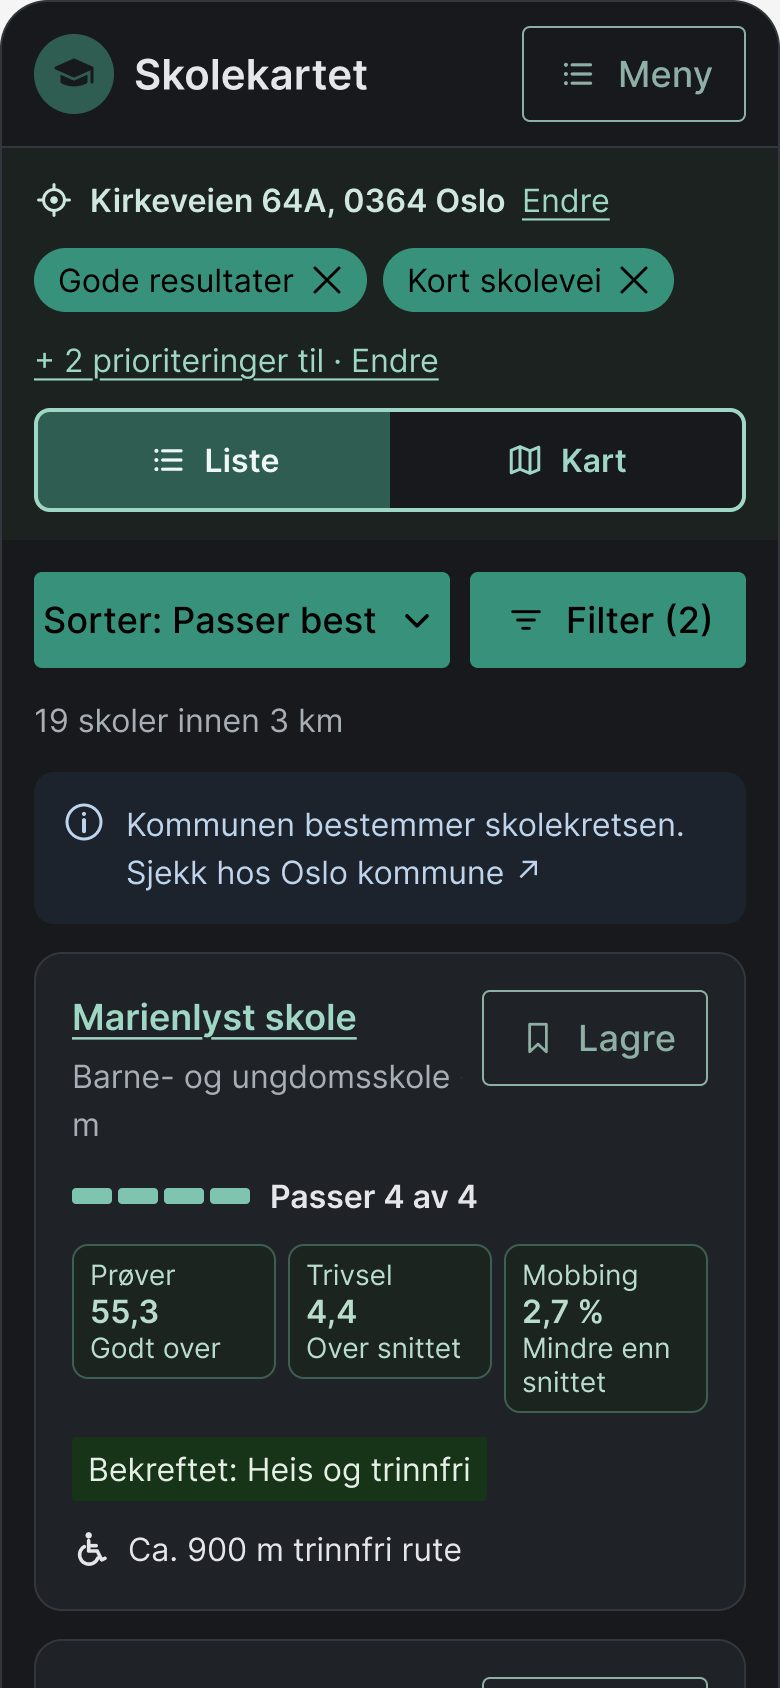
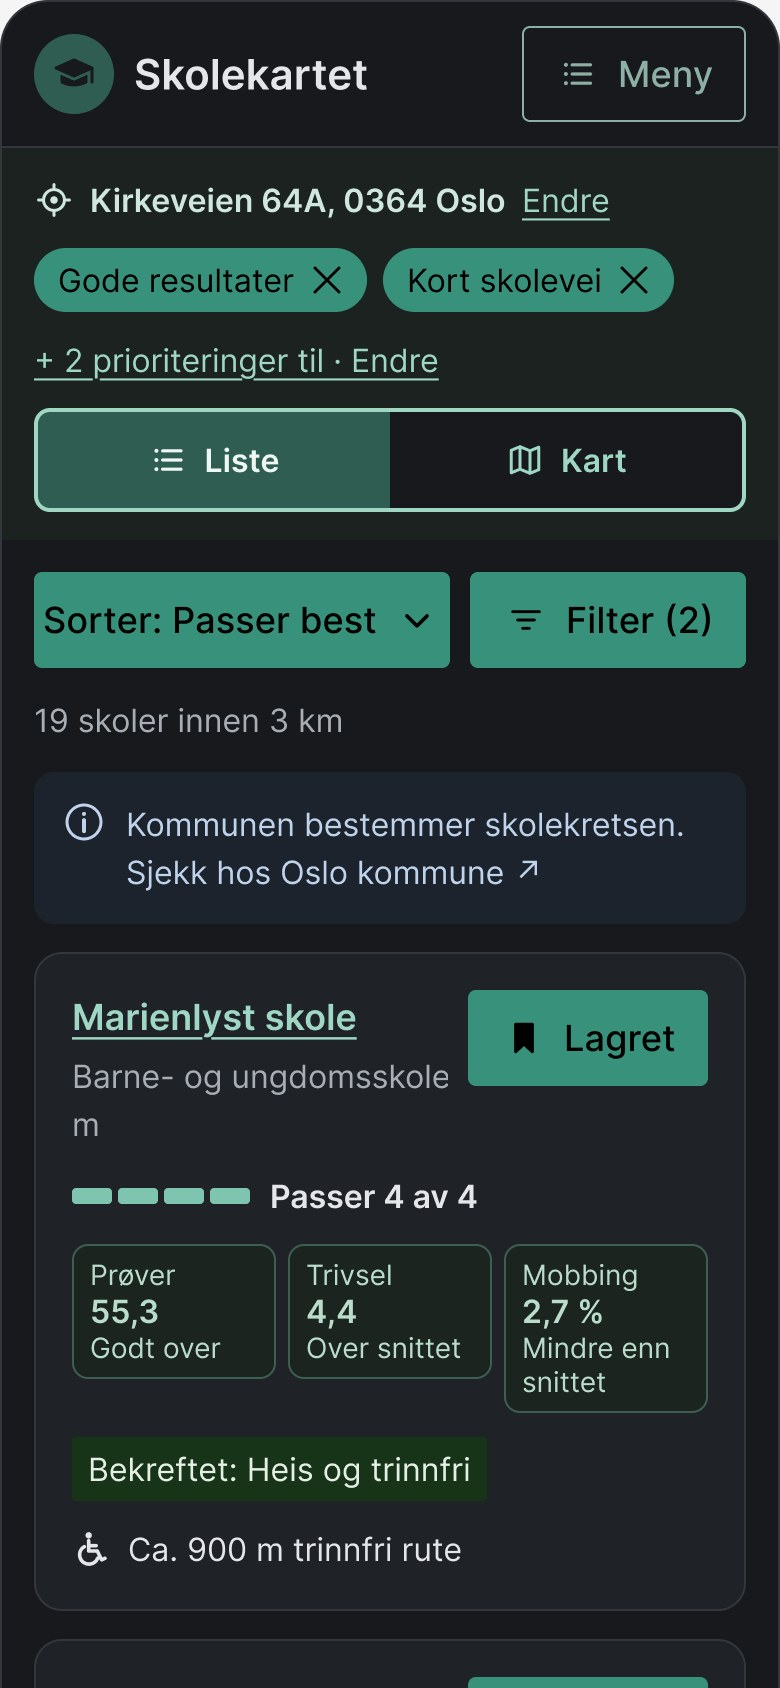
Skolekartet case images: saved schools show Lagret on their cards
Re-exported from Figma after fixing the save buttons, so the cards match
the saved list.

Changed region(s): [[0.5846, 0.5853, 0.9231, 0.6469], [0.5846, 0.9858, 0.9231, 1.0]]

diff --git a/skolekartet.html b/skolekartet.html
@@ -214,7 +214,7 @@
     </div>
 
     <figure class="sk-hero">
-      <img src="assets/case/sk/cover-v2.jpg?v=3" width="2000" height="1500"
+      <img src="assets/case/sk/cover-v2.jpg?v=4" width="2000" height="1500"
            alt="The redesigned Skolekartet on a laptop and a phone. On the laptop, schools near Kirkeveien 64A are sorted by how well they fit the family&apos;s priorities: good results, little bullying, step-free access for the parent and a short school route, with test results, wellbeing and bullying in words on every card. On the phone, the shared list in large text with the same numbers in words." />
       <figcaption data-en="Results, wellbeing and access count the same, every number comes with words, and the list opens on the parent&rsquo;s own phone."
                   data-no="Resultater, trivsel og tilgjengelighet teller like mye, hvert tall kommer med ord, og listen åpnes på forelderens egen telefon.">

diff --git a/index.html b/index.html
@@ -423,7 +423,7 @@
           </a>
         </div>
         <figure class="snap-image">
-          <img src="assets/case/sk/cover-v2.jpg?v=3" width="2000" height="1500" alt="" loading="lazy" />
+          <img src="assets/case/sk/cover-v2.jpg?v=4" width="2000" height="1500" alt="" loading="lazy" />
           <figcaption data-en="Every family first: results, wellbeing and access as equal priorities, built on Designsystemet."
                       data-no="Hver familie først: resultater, trivsel og tilgjengelighet som likeverdige prioriteringer, bygget på Designsystemet.">
             Every family first: results, wellbeing and access as equal priorities, built on Designsystemet.
